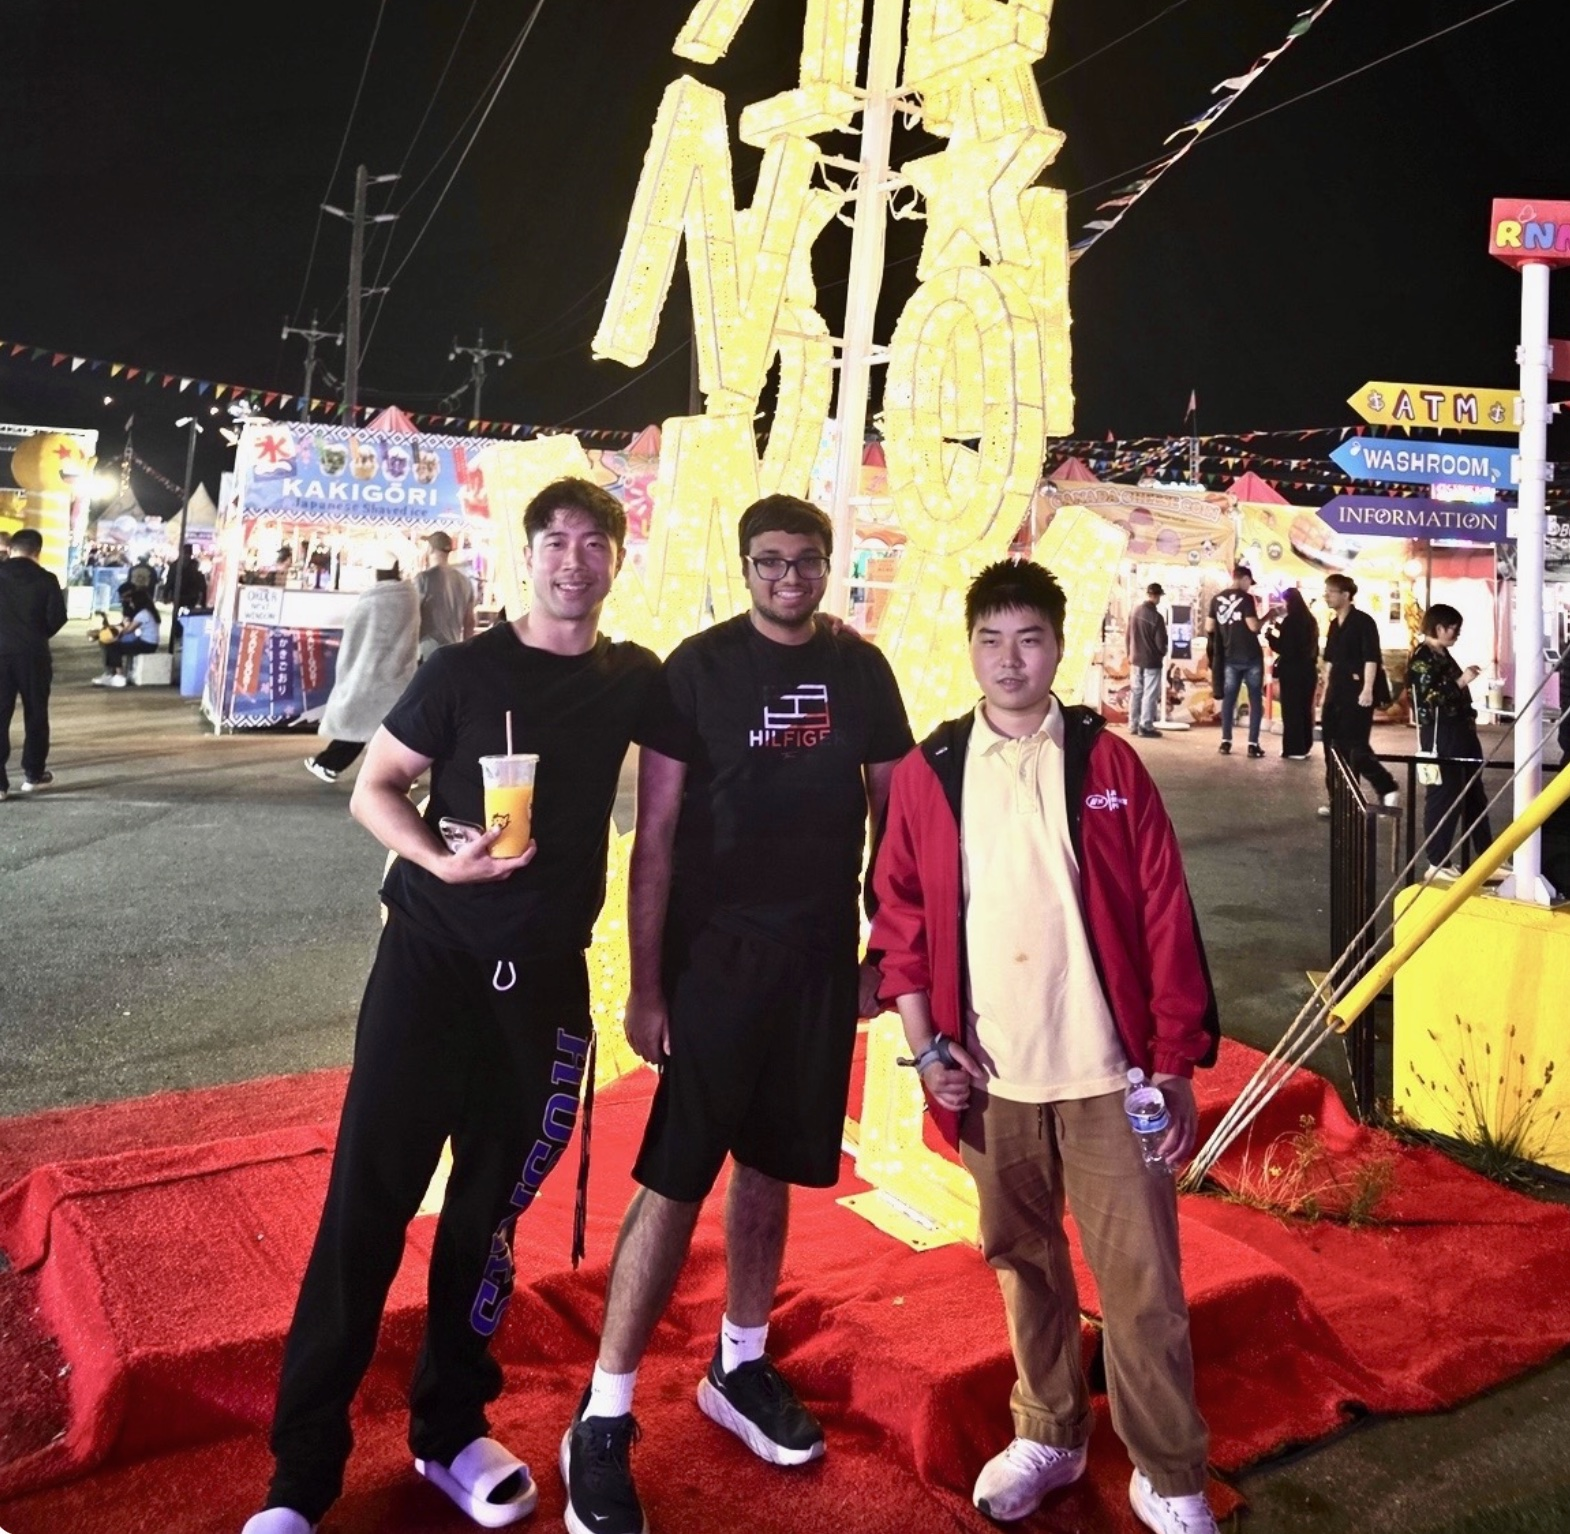
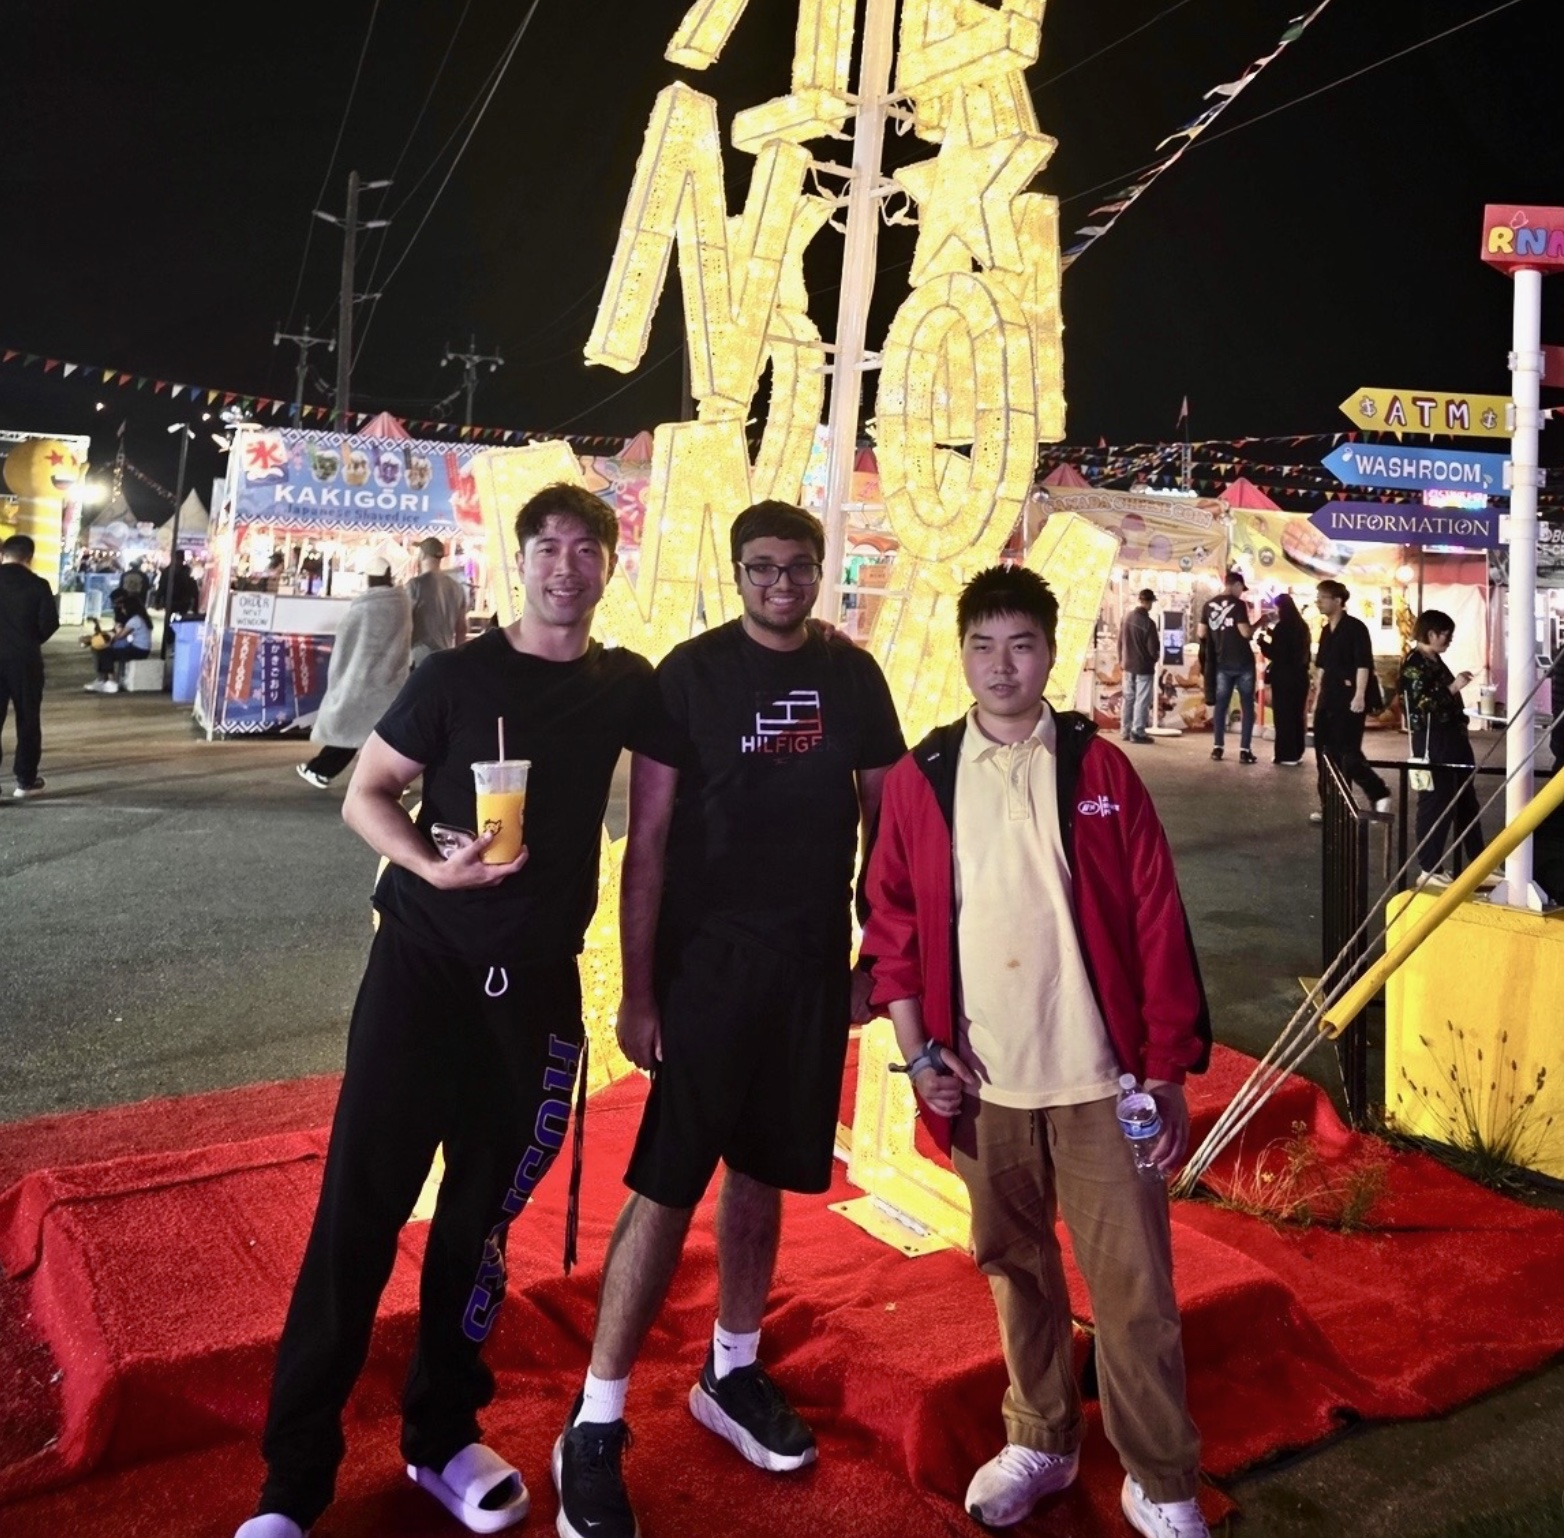
Gallery: swap in the new version of the night market photo
Same photo of three friends in front of the night market sign, replaced
with the newer version. The caption and description are unchanged.

diff --git a/src/routes/gallery.tsx b/src/routes/gallery.tsx
@@ -58,7 +58,7 @@ type Photo = {
 // `lead` set beside it (or just below it), then the rest with group photos first. `id` names the
 // image files in src/assets/gallery; width and height are the preview image's size.
 const photos: Photo[] = [
-  { id: "night-market-red-carpet", group: true, width: 800, height: 782, caption: "Night market, full stomachs.", alt: "Three friends standing on a red carpet in front of a tall glowing sign at a night market" },
+  { id: "night-market-red-carpet", group: true, width: 800, height: 787, caption: "Night market, full stomachs.", alt: "Three friends standing on a red carpet in front of a tall glowing sign at a night market" },
   { id: "peace-sign-selfie", group: true, width: 597, height: 800, caption: "Two grins, one peace sign.", alt: "Two friends grinning in a selfie, one flashing a peace sign, beside an orange wall" },
   { id: "waterfront-sunset-selfie", group: true, width: 800, height: 599, caption: "Sunset squad, assembled.", alt: "Selfie with three friends on a dock at dusk, with calm water and lit-up houses behind them" },
   { id: "graduation-roses", group: true, featured: true, width: 602, height: 800, caption: "Degree done, roses in hand.", alt: "With parents on graduation day, holding red roses in a graduation gown and purple stole outside Alaska Airlines Field" },
